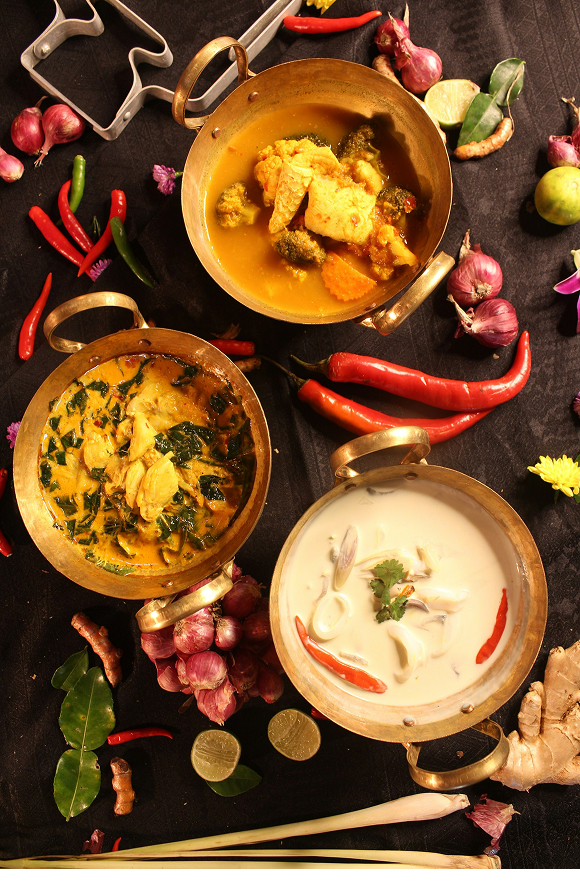
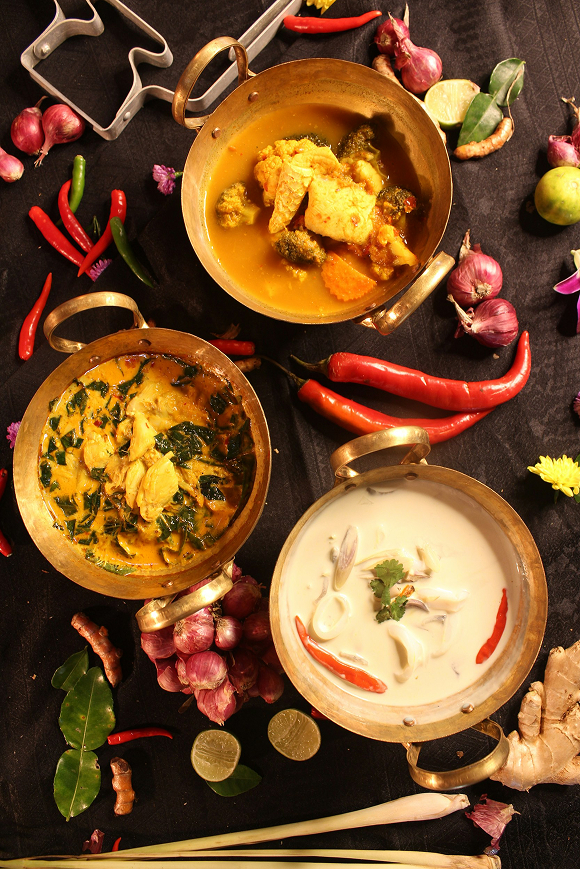
done with landing page

diff --git a/styles/base.css b/styles/base.css
@@ -1,64 +1,64 @@
 @import url('https://fonts.googleapis.com/css2?family=Fira+Sans:ital,wght@0,100;0,200;0,300;0,400;0,500;0,600;0,700;0,800;0,900;1,100;1,200;1,300;1,400;1,500;1,600;1,700;1,800;1,900&family=PT+Serif:ital,wght@0,400;0,700;1,400;1,700&display=swap');
 
 * {
-	box-sizing: border-box;
-	padding: 0;
-	margin: 0;
+    box-sizing: border-box;
+    padding: 0;
+    margin: 0;
 }
 
 :root {
-	--primary-bg-color: #74a87e;
-	--color-red: #d23131;
-	--color-darkgrey: #353131;
-	--color-grey: #605858;
-	--color-lightgrey: rgba(53, 49, 49, 0.25);
-	--color-white: #ffffff;
+    --primary-bg-color: #74a87e;
+    --color-red: #d23131;
+    --color-darkgrey: #353131;
+    --color-grey: #605858;
+    --color-lightgrey: rgba(53, 49, 49, 0.25);
+    --color-white: #ffffff;
 }
 
 .wrapper {
-	/* display: flex;
-	flex-direction: column; */
-	padding: 1rem;
-	justify-content: center;
-	margin: 0 auto;
-	border: 1px solid black;
-	min-height: 100vh;
-	max-width: 480px;
+    /* display: flex;
+    flex-direction: column; */
+    padding: 1rem;
+    justify-content: center;
+    margin: 0 auto;
+    border: 1px solid black;
+    min-height: 100vh;
+    max-width: 480px;
 }
 
 .wrapper--greenleaf {
-	background-color: var(--primary-bg-color);
-	background-image: url('../resources/images/background.jpg');
-	background-repeat: no-repeat;
-	background-size: cover;
-	background-position: center;
-	overflow: hidden;
+    background-color: var(--primary-bg-color);
+    background-image: url('../resources/images/background.jpg');
+    background-repeat: no-repeat;
+    background-size: cover;
+    background-position: center;
+    overflow: hidden;
 }
 
 .wrapper--grey {
-	background-color: var(--color-darkgrey);
+    background-color: var(--color-darkgrey);
 }
 
 .btn {
-	border-radius: 8px;
-	border: none;
-	font-family: 'Fira Sans', sans-serif;
-	font-size: 1.5rem;
-	text-align: center;
-	color: var(--color-white);
-	padding: 1.5rem 0 1.5rem 0;
-	cursor: pointer;
-	text-decoration: none;
+    border-radius: 8px;
+    border: none;
+    font-family: 'Fira Sans', sans-serif;
+    font-size: 1.5rem;
+    text-align: center;
+    color: var(--color-white);
+    padding: 1.5rem 0 1.5rem 0;
+    cursor: pointer;
 	width: 100%;
+	text-decoration: none;
 }
 
 .btn--red {
-	background-color: var(--color-red);
+    background-color: var(--color-red);
 }
 
 /* class="btn btn--red" */
 
 .btn--grey {
-	background-color: var(--color-grey);
-	border: 1px solid var(--color-white);
+    background-color: var(--color-grey);
+    border: 1px solid var(--color-white);
 }

diff --git a/styles/index.css b/styles/index.css
@@ -21,10 +21,6 @@
 .landing-wrapper {
     display: flex;
     flex-direction: column;
-    background-image: url('../resources/images/food-bg-image.jpg');
-    background-repeat: no-repeat;
-    background-size: cover;
-    background-position: center;
 }
 
 .header__logo {
@@ -49,7 +45,6 @@
 .content__background {
     background-color: rgba(0, 0, 0, .4);
     align-self: center;
-    padding: 1rem 2rem;
     margin-top: auto;
     margin-bottom: auto;
     border-radius: 14px;
@@ -63,6 +58,7 @@
     font-weight: 400;
     font-size: 2.6rem;
     text-align: center;
+    padding: 1rem;
 }
 
 .btn-container {
@@ -73,6 +69,22 @@
     padding-bottom: 2rem;
 }
 
-.btn {
-    padding: 3.2rem 0;
+.btn--landing {
+    width: 10rem;
+}
+
+@media (min-width: 320px) and (max-width: 369px) {
+    .btn--landing {
+        width: 8rem;
+    }
+
+    .content__title {
+        font-size: 2rem;
+    }
+}
+
+@media (min-width: 430px) {
+    .btn--landing {
+        width: 12rem;
+    }
 }

diff --git a/index.html b/index.html
@@ -8,7 +8,7 @@
 		<link rel="stylesheet" href="./styles/index.css" />
 	</head>
 	<body>
-		<div class="wrapper landing-wrapper">
+		<div class="wrapper landing-wrapper bg-image">
 			<header class="header">
 				<img src="./resources/icons/logo.jpg" alt="Yum Yum Gimmie Sum:s logotyp" class="header__logo">
 			</header>
@@ -18,8 +18,8 @@
 						<h1 class="content__title">Välkommen till Yum Yum Gimmie Sum!</h1>
 					</section>
 					<section class="btn-container">
-						<a href="./pages/menu.html" class="btn btn--red">Beställ</a>
-						<a href="./pages/login.html" class="btn btn--grey">Logga in</a>
+						<a href="./pages/menu.html" class="btn btn--landing btn--red">Beställ</a>
+						<a href="./pages/login.html" class="btn btn--landing btn--grey">Logga in</a>
 					</section>
 				</article>
 			</main>

diff --git a/protokoll/Daily Scrum/daily20260309.md b/protokoll/Daily Scrum/daily20260309.md
@@ -1,0 +1,38 @@
+# Mötesprotokoll 2026-03-09
+
+Sätt en timer på 15 minuter
+
+## Närvarande
+* Person 1: Per
+* Person 2: Alexander
+* Person 3: Lisa
+* Person 4: Minna
+
+## Protokoll
+Var och en svarar på frågorna nedan, 1 person antecknar
+* Vad gjorde du igår?
+* Vad ska du göra idag?
+* Finns det några hinder?
+
+### Person 1: Per
+* Planerade arbetet gemensamt med gruppen – valde ut och flyttade user stories till sprint-backlogen och skissade på layouten i Figma
+* Börja på sidorna för att logga in och registrera konto
+* Nej
+
+### Person 2: Alexander
+* Planerade arbetet gemensamt med gruppen – valde ut och flyttade user stories till sprint-backlogen och skissade på layouten i Figma
+* Börja på menysidan
+* Nej
+
+### Person 3: Lisa
+* Planerade arbetet gemensamt med gruppen – valde ut och flyttade user stories till sprint-backlogen och skissade på layouten i Figma
+* Börja på foodtruck location-sidan
+* Nej
+
+### Person 4: Minna
+* Planerade arbetet gemensamt med gruppen – valde ut och flyttade user stories till sprint-backlogen och skissade på layouten i Figma
+* Börja på landningssidan
+* Nej
+
+### Övrigt
+Ingen behöver hjälp i nuläget
